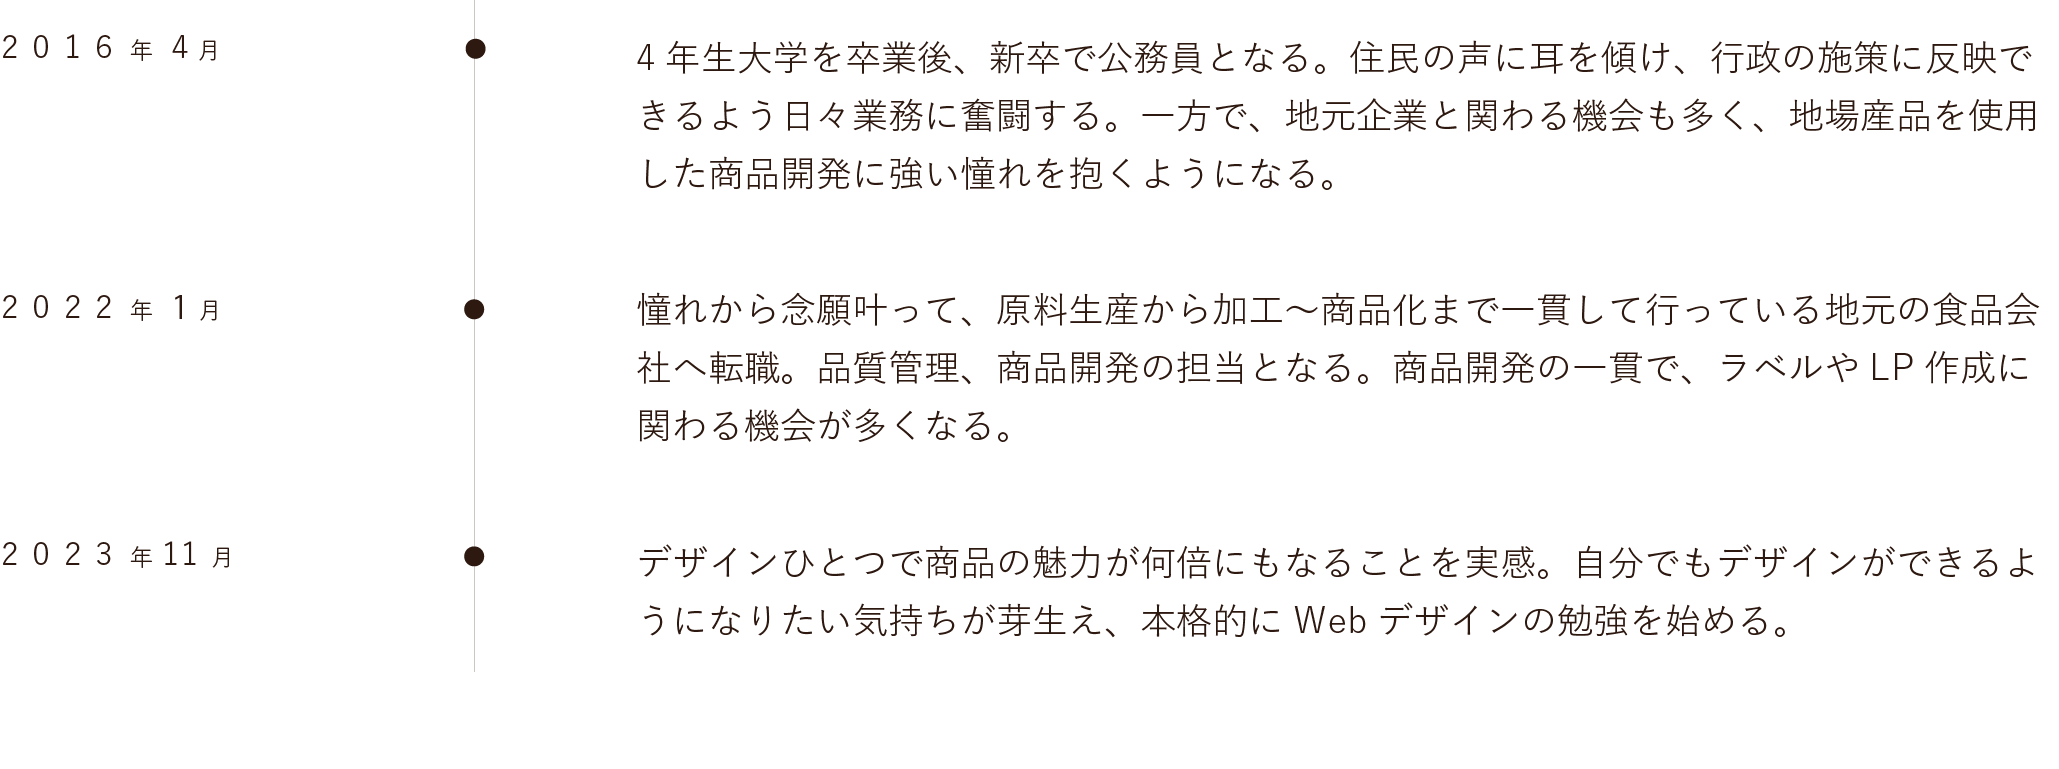
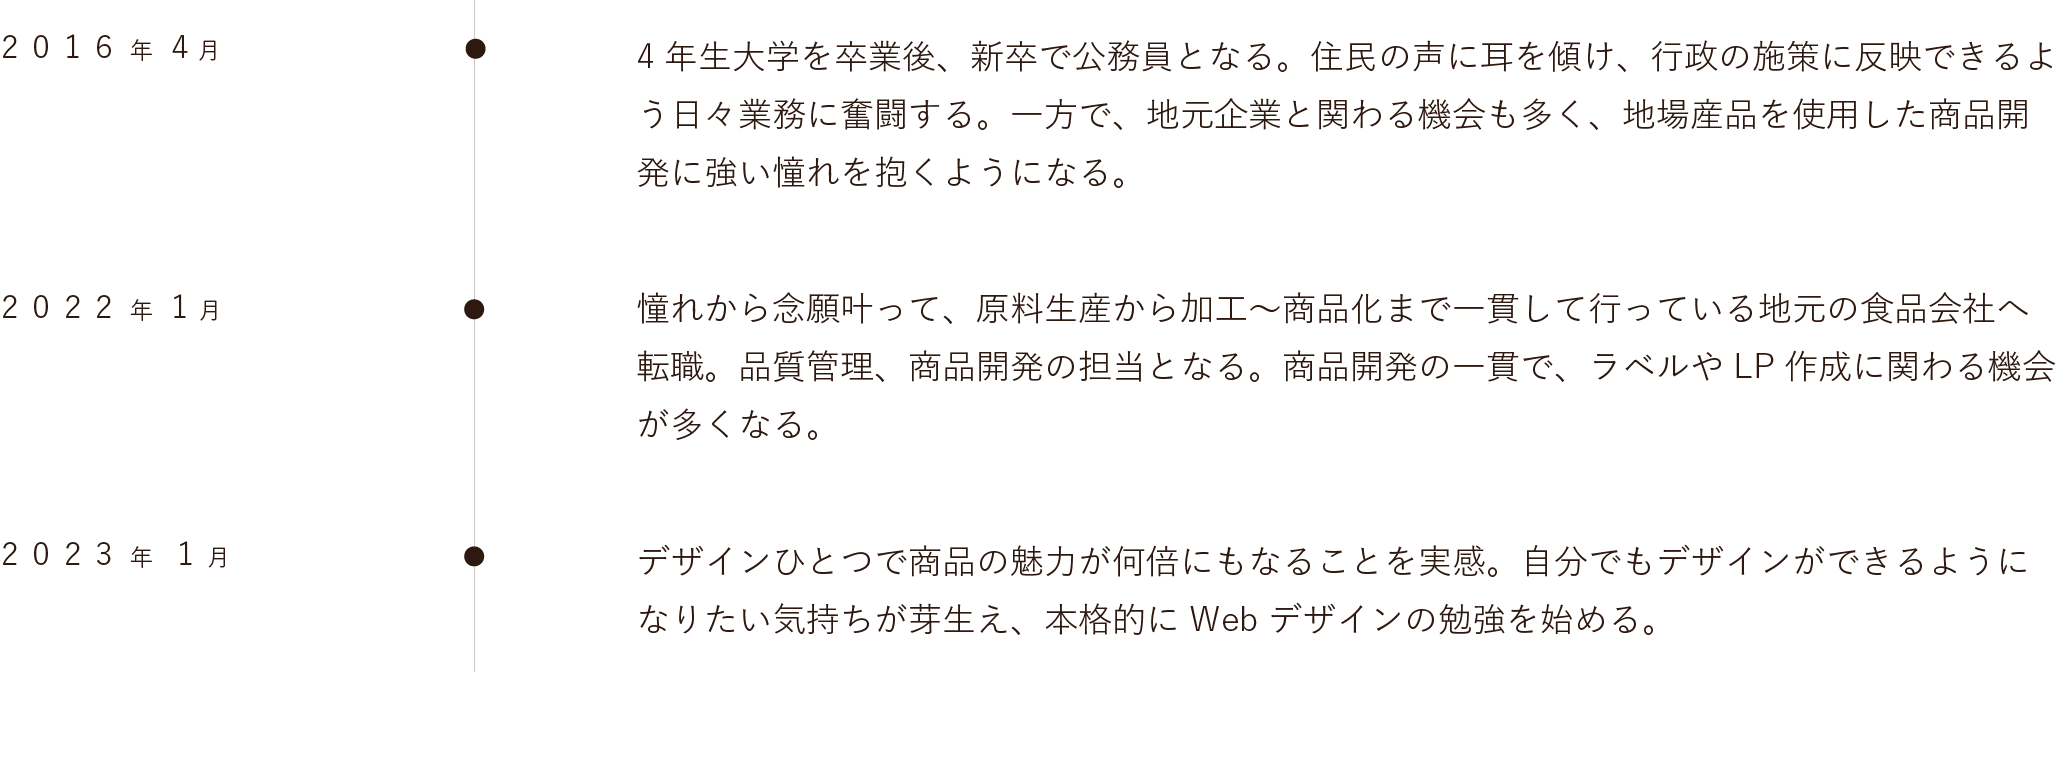
修正

diff --git a/portfolio/index.html b/portfolio/index.html
@@ -168,40 +168,40 @@
                     </div>
                     <div class="works_img js-fade">
                         <div class="workimg"><a href="works/works5.html"><img src="image/2x/works1_1@2x-100.jpg"
-                                    alt="制作物">
-                                <div class="hover__mask">
-                                    <p class="hover_mask">
-                                        LIFE hair design 様
-                                        <br>美容室のLP
-                                    </p>
-                                </div>
-                                <p class="title_sp">美容室のLP（架空）</p>
-                                <span class="title_sp">Webデザイン</span>
-                            </a>
+                                    alt="制作物"></a>
+                            <div class="hover__mask">
+                                <p class="hover_mask">
+                                    LIFE hair design 様
+                                    <br>美容室のLP
+                                </p>
+                            </div>
+                            <p class="title_sp">美容室のLP（架空）</p>
+                            <span class="title_sp">Webデザイン</span>
+
                         </div>
                         <div class="workimg"><a href="works/worksbanner3-2.html"><img src="image/2x/work2@2x-100.jpg"
-                                    alt="制作物">
-                                <div class="hover__mask">
-                                    <p class="hover_mask">
-                                        ハンバーガーの販促バナー（架空）
-                                        <br>バナー
-                                    </p>
-                                </div>
-                                <p class="title_sp">ハンバーガーの販促バナー（架空）</p>
-                                <span class="title_sp">バナー</span>
-                            </a>
+                                    alt="制作物"></a>
+                            <div class="hover__mask">
+                                <p class="hover_mask">
+                                    ハンバーガーの販促バナー（架空）
+                                    <br>バナー
+                                </p>
+                            </div>
+                            <p class="title_sp">ハンバーガーの販促バナー（架空）</p>
+                            <span class="title_sp">バナー</span>
+
                         </div>
                         <div class="workimg"><a href="works/worksbanner.html"><img src="image/2x/works3@2x-100.jpg"
-                                    alt="制作物">
-                                <div class="hover__mask">
-                                    <p class="hover_mask">
-                                        スマホの料金プラン案内（架空）
-                                        <br>バナー
-                                    </p>
-                                </div>
-                                <p class="title_sp">スマホの料金プラン案内（架空）</p>
-                                <span class="title_sp">バナー</span>
-                            </a>
+                                    alt="制作物"></a>
+                            <div class="hover__mask">
+                                <p class="hover_mask">
+                                    スマホの料金プラン案内（架空）
+                                    <br>バナー
+                                </p>
+                            </div>
+                            <p class="title_sp">スマホの料金プラン案内（架空）</p>
+                            <span class="title_sp">バナー</span>
+
                         </div>
                     </div>
                     <div class="viewmore js-fade"><a href="works.html" class="btnarrow5">詳しく見る</a></div>

diff --git a/portfolio/about.html b/portfolio/about.html
@@ -102,7 +102,7 @@
                         <h3>-Kiyota Asuka-</h3>
                     </div>
                     <br>
-                    <p>食品会社で品質管理と商品開発を担当しています。自社ECサイトを通してWebデザインに興味を持ち、2023年11月から本格的にデザインの勉強を始めました。興味を持ったことはリスクを負ってでも挑戦してみないと気が済まない性分です。座右の銘は「有言実行」。料理、お菓子作り、絵を描く、DIYなど何かを自分で作ること(ジャンルは様々)が好きです。
+                    <p>食品会社で品質管理と商品開発を担当しています。自社ECサイトを通してWebデザインに興味を持ち、2023年から本格的にデザインの勉強を始めました。興味を持ったことはリスクを負ってでも挑戦してみないと気が済まない性分です。座右の銘は「有言実行」。
                         <br>これまでの経験を通して培った柔軟な対応力と持ち前の行動力で、まだまだたくさんのことに挑戦していきます。
                     </p>
                 </div>
@@ -136,7 +136,7 @@
             <p class="career_text">
                 憧れから念願叶って、原料生産から加工〜商品化まで一貫して行っている地元の食品会社へ転職。品質管理、商品開発の担当となる。商品開発の一貫で、ラベルやLP作成に関わる機会が多くなる。</p>
             <br>
-            <p class="career_d">2023<span>年</span>11<span>月</span></p>
+            <p class="career_d">2023<span>年</span>1<span>月</span></p>
             <hr color="#efe6ce" noshade size="0.1">
 
             <p class="career_text">デザインひとつで商品の魅力が何倍にもなることを実感。自分でもデザインができるようになりたい気持ちが芽生え、本格的にWebデザインの勉強を始める。</p>
